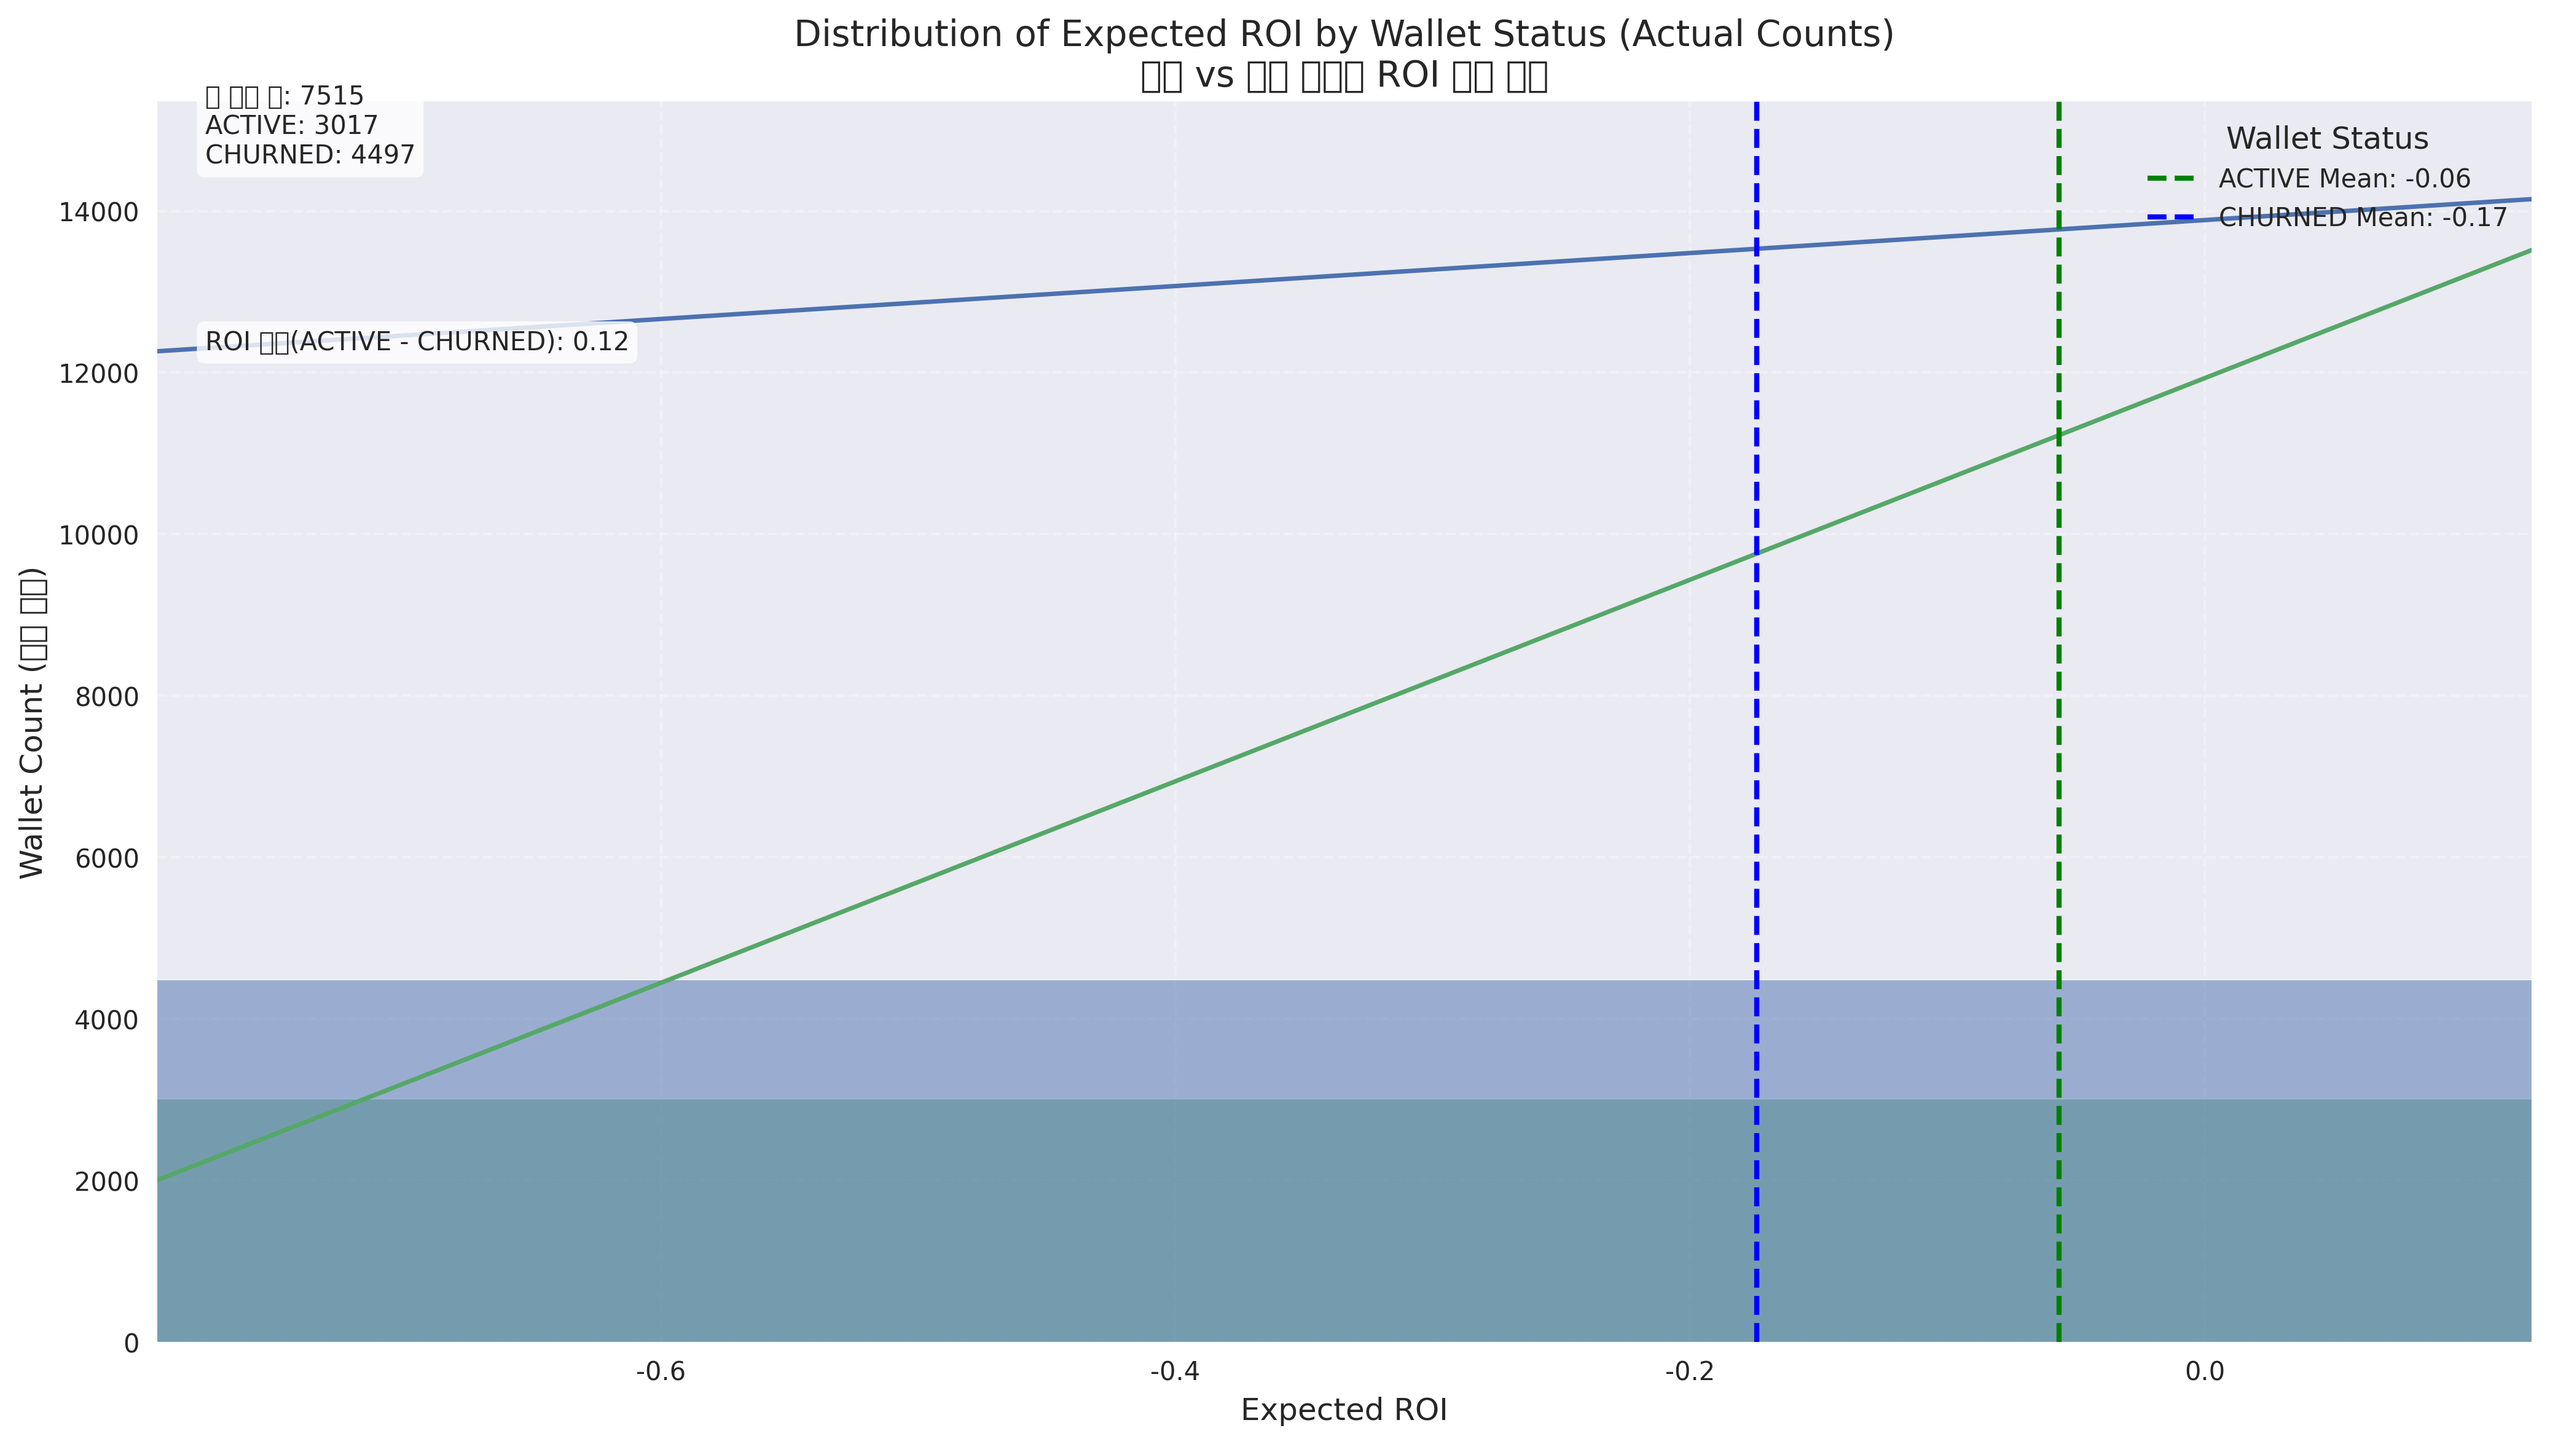
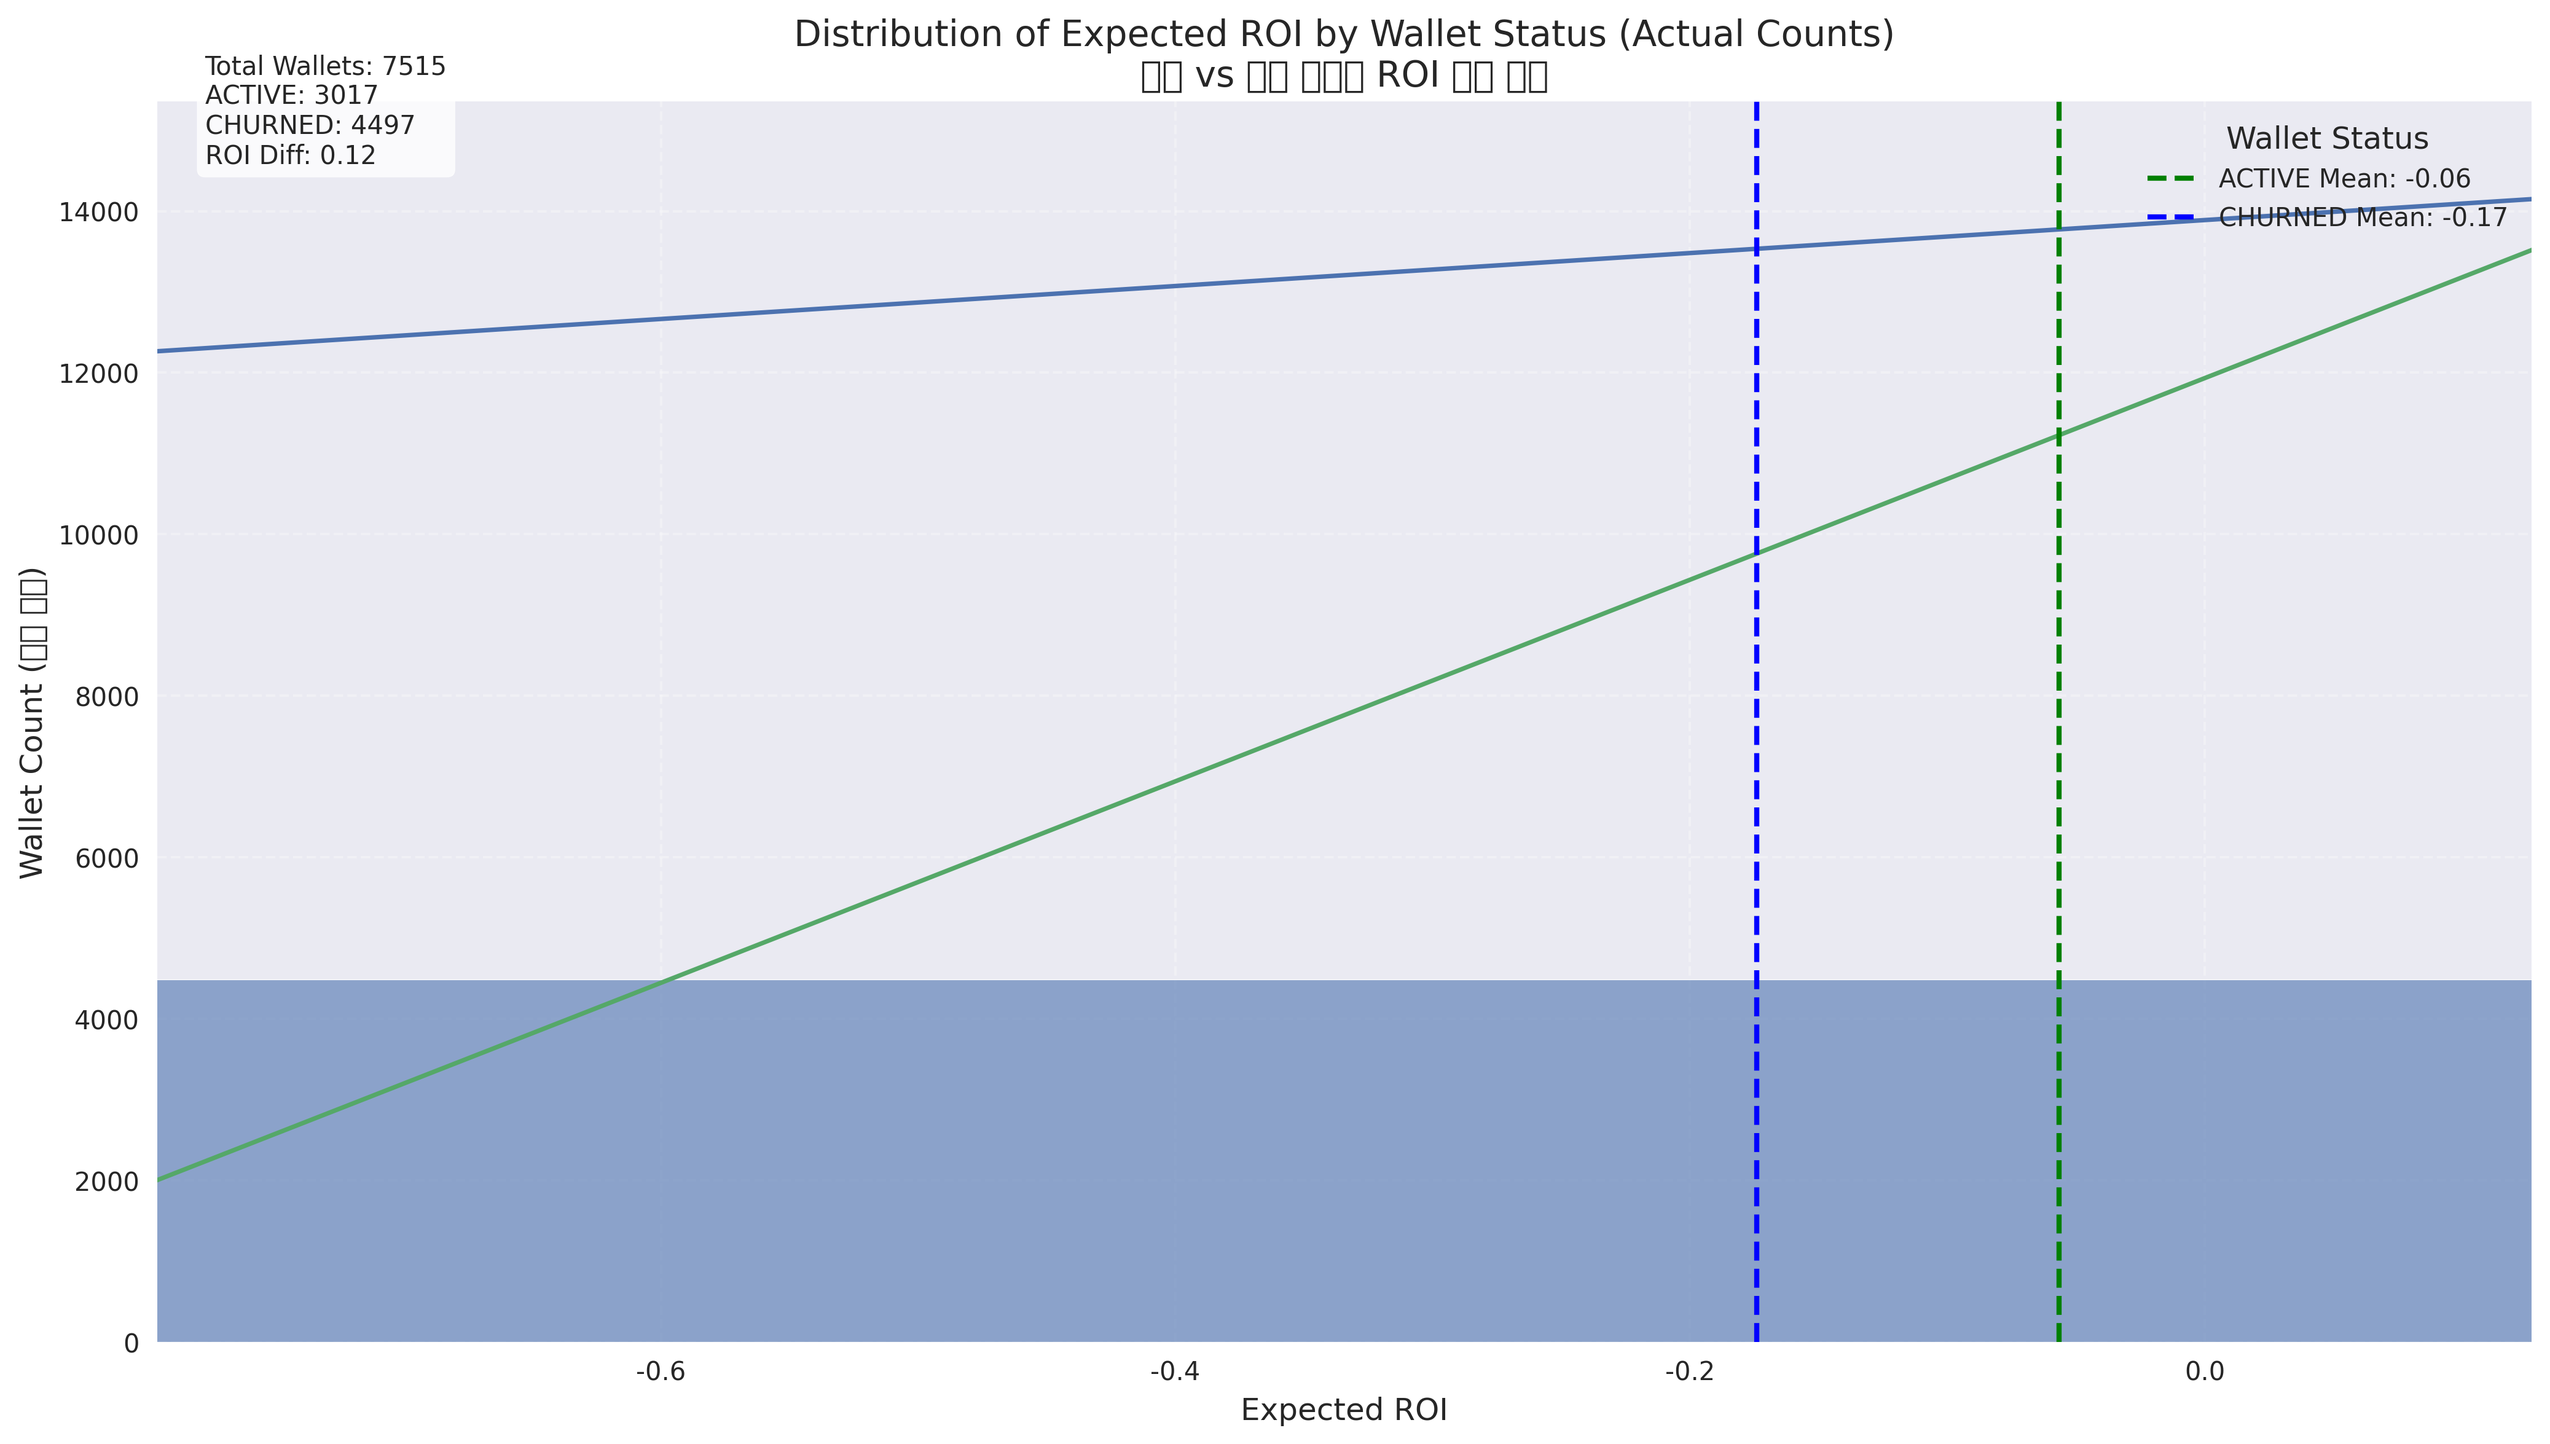
ROI 분포 히스토그램 및 보고서 개선 완료

Changed region(s): [[0.0622, 0.7455, 0.9947, 0.9319], [0.0622, 0.0311, 0.1554, 0.1243], [0.0622, 0.2174, 0.2487, 0.2485]]

diff --git a/expected_roi_churn_final/analysis_result/meme_coin_roi_churn_analysis.py b/expected_roi_churn_final/analysis_result/meme_coin_roi_churn_analysis.py
@@ -151,15 +151,27 @@ def visualization_analysis(df):
     active_mean_roi = df_clean[df_clean['WALLET_STATUS'] == 'ACTIVE']['EXPECTED_ROI'].mean()
     churned_mean_roi = df_clean[df_clean['WALLET_STATUS'] == 'CHURNED']['EXPECTED_ROI'].mean()
     
-    # 개선된 히스토그램: KDE 곡선 추가 및 가독성 개선
-    ax = sns.histplot(data=df_clean, x='EXPECTED_ROI', hue='WALLET_STATUS', bins=30, 
-                      kde=True, element="bars", alpha=0.5, multiple="layer")
+    # 개선된 히스토그램: 명확한 막대 그래프와 KDE 곡선
+    plt.figure(figsize=(14, 8))
+    # 더 명확한 히스토그램 - 겹치지 않는 막대 형태로 표시
+    ax = sns.histplot(
+        data=df_clean, 
+        x='EXPECTED_ROI', 
+        hue='WALLET_STATUS', 
+        bins=30,
+        kde=True,  # KDE 곡선 활성화
+        element="bars", 
+        alpha=0.6,  # 투명도 조정
+        multiple="dodge",  # 막대가 겹치지 않도록 설정
+        stat="count",  # 빈도수 표시
+        common_norm=False  # 각 그룹을 독립적으로 정규화
+    )
     
     # 각 그룹의 평균 ROI 세로선 추가
     plt.axvline(x=active_mean_roi, color='green', linestyle='--', linewidth=2, label=f'ACTIVE Mean: {active_mean_roi:.2f}')
     plt.axvline(x=churned_mean_roi, color='blue', linestyle='--', linewidth=2, label=f'CHURNED Mean: {churned_mean_roi:.2f}')
     
-    # 그래프 제목 및 레이블 설정
+    # 그래프 제목 및 레이블 설정 (한글 폰트 문제 방지)
     plt.title('Distribution of Expected ROI by Wallet Status (Actual Counts)\n활성 vs 이탈 지갑의 ROI 분포 비교', fontsize=14)
     plt.xlabel('Expected ROI', fontsize=12)
     plt.ylabel('Wallet Count (지갑 개수)', fontsize=12)
@@ -171,18 +183,16 @@ def visualization_analysis(df):
     # 왼쪽 상단에 총 지갑 수 표시
     active_count = len(df_clean[df_clean['WALLET_STATUS'] == 'ACTIVE'])
     churned_count = len(df_clean[df_clean['WALLET_STATUS'] == 'CHURNED'])
-    plt.annotate(f'총 지갑 수: {len(df_clean)}\nACTIVE: {active_count}\nCHURNED: {churned_count}', 
+    total_count = len(df_clean)
+    roi_diff = active_mean_roi - churned_mean_roi
+    
+    # 영문으로 통계 정보 표시하여 한글 폰트 문제 방지
+    plt.annotate(f'Total Wallets: {total_count}\nACTIVE: {active_count}\nCHURNED: {churned_count}\nROI Diff: {roi_diff:.2f}', 
                 xy=(0.02, 0.95), xycoords='axes fraction', fontsize=10,
                 bbox=dict(boxstyle="round,pad=0.3", fc="white", alpha=0.8))
     
-    # 통계 정보 추가
-    roi_diff = active_mean_roi - churned_mean_roi
-    plt.annotate(f'ROI 차이(ACTIVE - CHURNED): {roi_diff:.2f}', 
-                xy=(0.02, 0.80), xycoords='axes fraction', fontsize=10,
-                bbox=dict(boxstyle="round,pad=0.3", fc="white", alpha=0.8))
-    
-    # 범례 위치 조정 및 추가 정보 포함
-    handles, labels = ax.get_legend_handles_labels()
+    # 범례 위치 조정 및 추가 정보 포함 - 기존 항목과 평균선을 하나의 범례로 통합
+    handles, labels = plt.gca().get_legend_handles_labels()
     plt.legend(handles=handles, labels=labels, title='Wallet Status', loc='upper right', fontsize=10)
     
     plt.tight_layout()

diff --git a/expected_roi_churn_final/analysis_result/roi_churn_analysis_report_KR.md b/expected_roi_churn_final/analysis_result/roi_churn_analysis_report_KR.md
@@ -39,14 +39,16 @@
 - 전체 7515개 지갑 중 이탈 지갑(4497개)이 활성 지갑(3017개)보다 많으며, 차트에서도 이탈 지갑이 차지하는 면적이 더 큰 것을 확인할 수 있습니다.
 
 **차트 주요 시각화 요소:**
-- **KDE 곡선**: 각 그룹의 분포 밀도를 곡선으로 표현하여 전체적인 분포 경향을 쉽게 파악할 수 있습니다.
+- **히스토그램 막대**: 각 ROI 값 구간에 해당하는 지갑의 실제 개수를 보여주며, 서로 겹치지 않는 형태로 그룹별 비교가 용이합니다.
+- **KDE 곡선**: 각 그룹의 분포 밀도를 부드러운 곡선으로 표현하여 전체적인 분포 경향을 쉽게 파악할 수 있습니다.
 - **평균값 표시선**: 활성 지갑(녹색 점선, -0.06)과 이탈 지갑(파란색 점선, -0.17)의 평균 ROI를 세로선으로 표시하여 두 그룹 간 차이를 시각적으로 명확히 보여줍니다.
-- **그룹별 통계 정보**: 차트 왼쪽 상단에 표시된 지갑 수 정보와 ROI 차이(0.11)는 두 그룹 간의 정량적 차이를 한눈에 보여줍니다.
+- **통계 정보 박스**: 차트 왼쪽 상단에 표시된 지갑 수 정보와 ROI 차이(0.11)는 두 그룹 간의 정량적 차이를 한눈에 보여줍니다.
 
 **분석 인사이트:**
 - 이탈 지갑과 활성 지갑의 평균 ROI 차이는 0.11로, 활성 지갑의 수익률이 더 높습니다.
 - KDE 곡선을 통해 활성 지갑의 분포가 0에 가까운 영역에 더 집중되어 있는 반면, 이탈 지갑은 더 넓게 퍼져 있으며 부정적인 방향으로 치우쳐 있음을 확인할 수 있습니다.
-- 히스토그램의 겹치는 부분을 통해 동일한 ROI 구간에서도 두 그룹이 공존하지만, 음의 ROI 구간에서는 이탈 가능성이 더 높음을 시각적으로 확인할 수 있습니다.
+- 히스토그램의 막대 높이를 통해 각 구간별 실제 지갑 수를 직접 비교할 수 있으며, 특히 낮은 ROI 구간에서 이탈 지갑의 수가 확연히 많은 것을 알 수 있습니다.
+- 동일한 ROI 구간에서도 두 그룹이 공존하지만, 음의 ROI 구간에서는 이탈 가능성이 더 높음을 시각적으로 확인할 수 있습니다.
 
 ### 2.3 예측 수익률(Expected ROI)과 이탈의 상관관계 분석
 ![상관관계 히트맵](correlation_heatmap.png)
